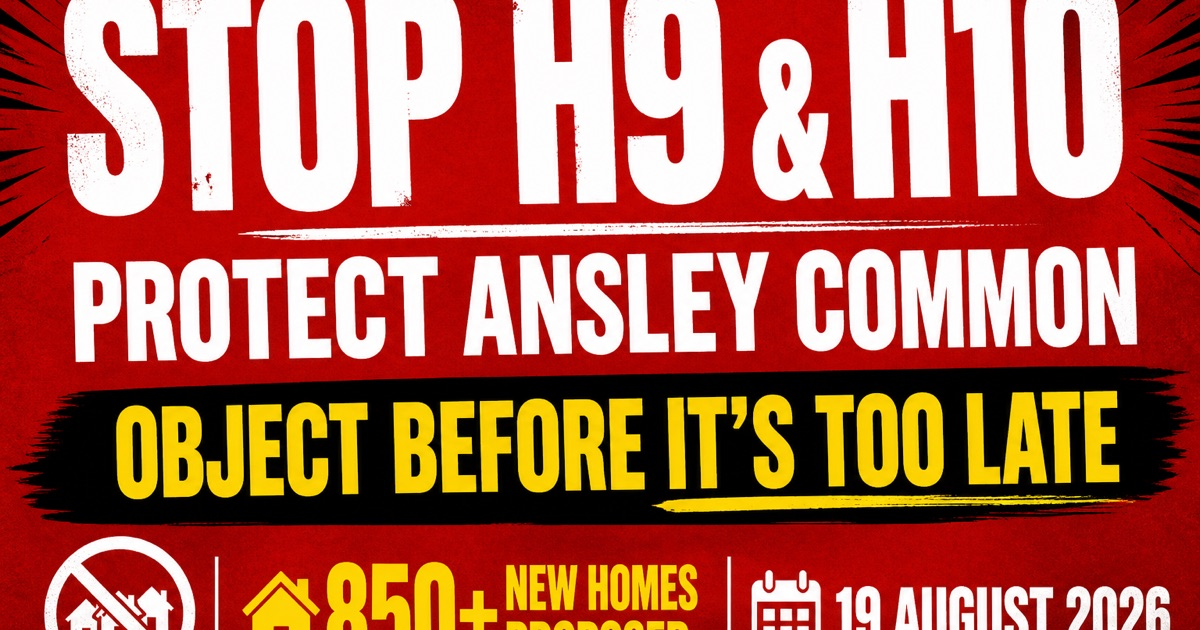
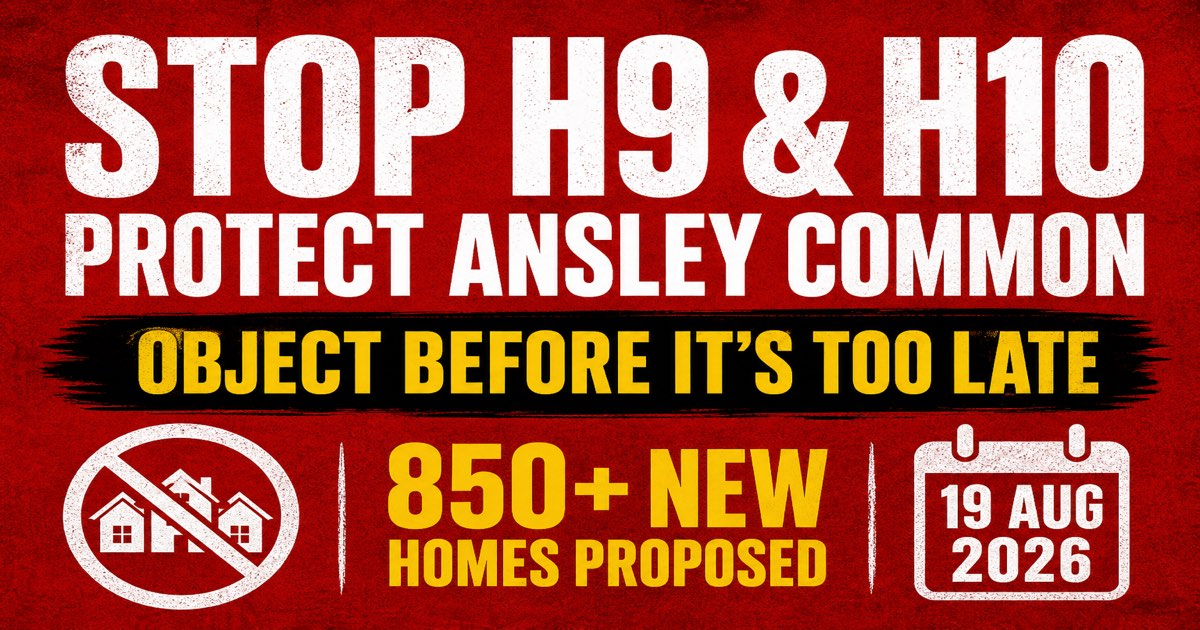
Fix WhatsApp share image ratio and refresh OG preview cache.
Regenerate the share card at 1200x630 with full content visible, tighten JPEG size, and bust social preview cache with a versioned og:image URL.

diff --git a/index.html b/index.html
@@ -5,13 +5,14 @@
   <meta name="viewport" content="width=device-width, initial-scale=1.0">
   <meta name="description" content="Object to North Warwickshire's Draft Local Plan. Stop H9 & H10 development at Ansley Common. Have your say before 19 August 2026.">
   <title>Stop H9 & H10 – Protect Ansley Common</title>
-  <link rel="canonical" href="https://ansleycommonplanning.netlify.app/">
   <meta property="og:type" content="website">
+  <meta property="og:site_name" content="Protect Ansley Common">
+  <meta property="og:locale" content="en_GB">
   <meta property="og:url" content="https://ansleycommonplanning.netlify.app/">
   <meta property="og:title" content="Stop H9 & H10 – Protect Ansley Common">
   <meta property="og:description" content="Up to 850 new homes proposed at Ansley Common. Object to North Warwickshire's Draft Local Plan before 19 August 2026.">
-  <meta property="og:image" content="https://ansleycommonplanning.netlify.app/assets/og-image.jpg">
-  <meta property="og:image:secure_url" content="https://ansleycommonplanning.netlify.app/assets/og-image.jpg">
+  <meta property="og:image" content="https://ansleycommonplanning.netlify.app/assets/og-image.jpg?v=3">
+  <meta property="og:image:secure_url" content="https://ansleycommonplanning.netlify.app/assets/og-image.jpg?v=3">
   <meta property="og:image:type" content="image/jpeg">
   <meta property="og:image:width" content="1200">
   <meta property="og:image:height" content="630">
@@ -19,7 +20,8 @@
   <meta name="twitter:card" content="summary_large_image">
   <meta name="twitter:title" content="Stop H9 & H10 – Protect Ansley Common">
   <meta name="twitter:description" content="Up to 850 new homes proposed at Ansley Common. Sign the petition before 19 August 2026.">
-  <meta name="twitter:image" content="https://ansleycommonplanning.netlify.app/assets/og-image.jpg">
+  <meta name="twitter:image" content="https://ansleycommonplanning.netlify.app/assets/og-image.jpg?v=3">
+  <link rel="canonical" href="https://ansleycommonplanning.netlify.app/">
   <link rel="stylesheet" href="/css/styles.css">
   <link rel="preconnect" href="https://fonts.googleapis.com">
   <link rel="preconnect" href="https://fonts.gstatic.com" crossorigin>
@@ -90,11 +92,11 @@
       <p class="section__lead">Share the website link on WhatsApp, Facebook, iMessage or local groups — this image appears automatically:</p>
 
       <figure class="share-preview">
-        <img src="/assets/og-image.jpg" alt="Stop H9 and H10 - Protect Ansley Common campaign share image" width="1200" height="630" loading="eager">
+        <img src="/assets/og-image.jpg?v=3" alt="Stop H9 and H10 - Protect Ansley Common campaign share image" width="1200" height="630" loading="eager">
       </figure>
 
       <div class="share-site-actions">
-        <a href="/assets/og-image.jpg" download="protect-ansley-common-share.jpg" class="share-btn share-btn--save">
+        <a href="/assets/og-image.jpg?v=3" download="protect-ansley-common-share.jpg" class="share-btn share-btn--save">
           <svg width="18" height="18" viewBox="0 0 24 24" fill="currentColor" aria-hidden="true"><path d="M19 9h-4V3H9v6H5l7 7 7-7zM5 18v2h14v-2H5z"/></svg>
           Save share image
         </a>

diff --git a/css/styles.css b/css/styles.css
@@ -310,15 +310,19 @@ body.countdown-sticky-active {
 }
 
 .share-preview {
+  aspect-ratio: 1200 / 630;
   border: 4px solid var(--black);
   box-shadow: 0 8px 24px rgba(0, 0, 0, 0.15);
   margin-bottom: 1.25rem;
   overflow: hidden;
+  background: var(--red);
 }
 
 .share-preview img {
   display: block;
   width: 100%;
+  height: 100%;
+  object-fit: cover;
 }
 
 .share-site-actions {
